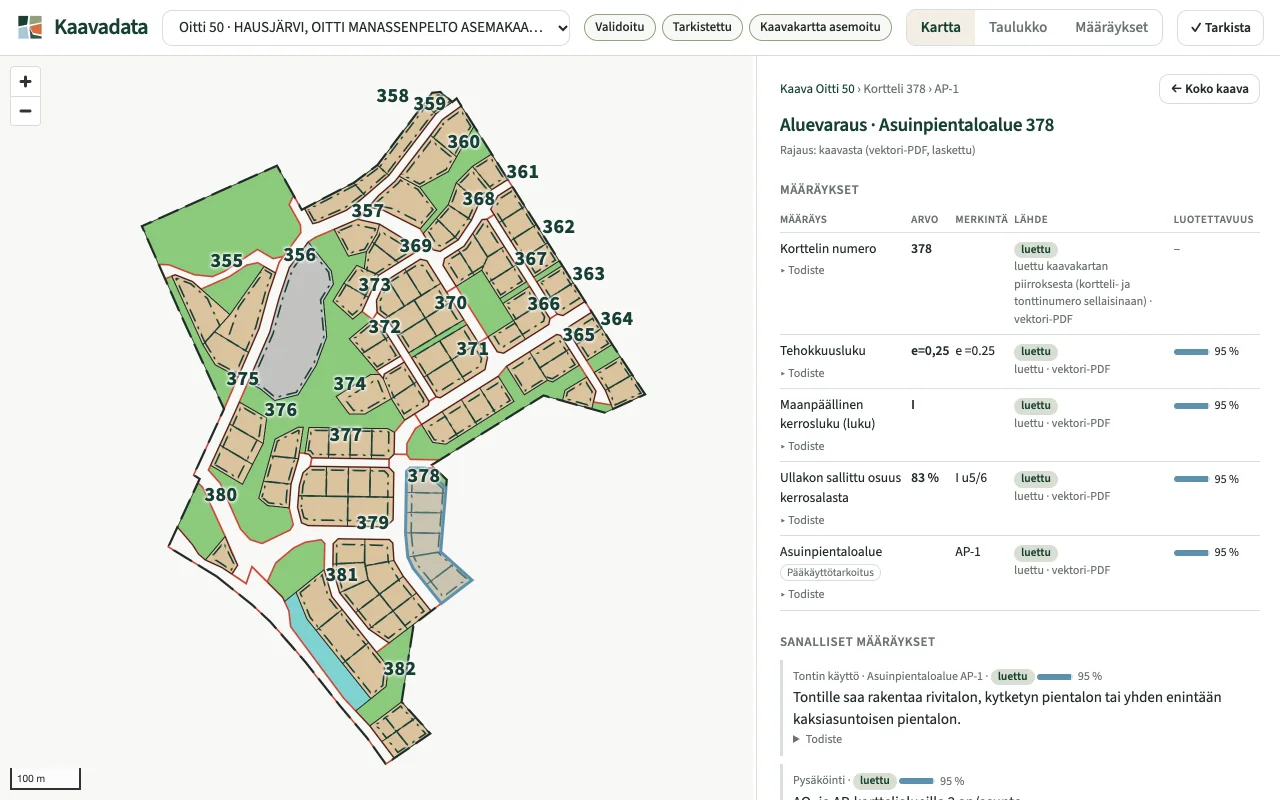
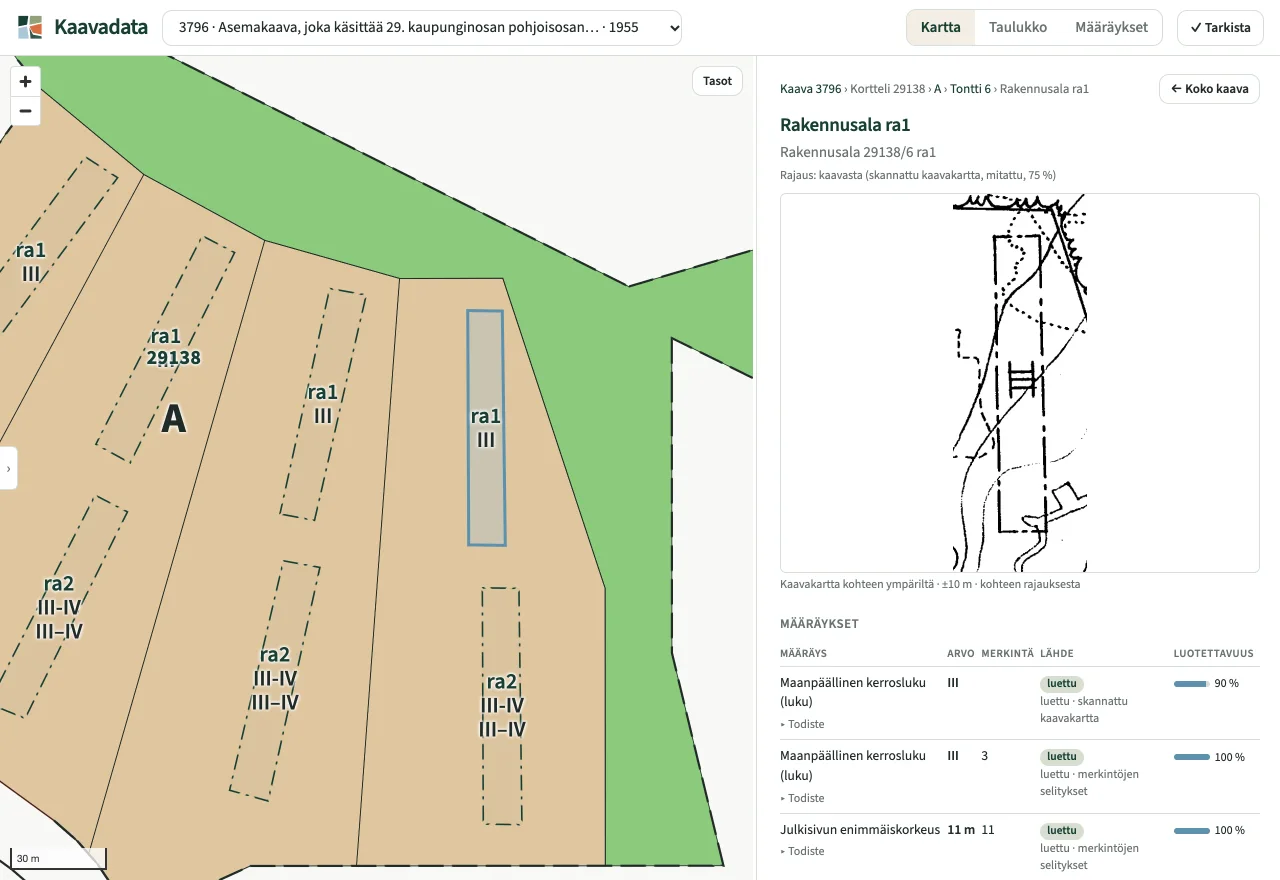
Mikko's copy, the 1955 plan as the screenshot, mikko@kaavadata.fi
The copy as Mikko wrote it: the lead names the inputs and Ryhti, the motto ends
with Ryhti-yhteensopiva, the three points are gone, the Ryhti section is
"Ryhti-yhteensopiva aineisto". The screenshot is the new UI on Helsinki's 3796
(1955, scanned): the interpretation on the map, the scan crop and the
regulations with their sources in the panel. Contact: mikko@kaavadata.fi.

diff --git a/index.html b/index.html
@@ -4,7 +4,7 @@
 <meta charset="utf-8">
 <meta name="viewport" content="width=device-width, initial-scale=1">
 <title>Kaavadata – rakenteista kaavatietoa vanhoista asemakaavoista</title>
-<meta name="description" content="Kaavadata muuntaa asemakaavan – skannatun kaavakartan, PDF:n tai CAD-aineiston – valtakunnallisen kaavatietomallin mukaiseksi paikkatiedoksi.">
+<meta name="description" content="Kaavadata muuntaa asemakaavan alkuperäisaineiston – skannatun kaavakartan, PDF:n tai CAD-aineiston – kansallisen kaavatietomallin mukaiseksi rakenteiseksi paikkatiedoksi, joka voidaan viedä Ryhti-järjestelmään.">
 <link rel="canonical" href="https://kaavadata.fi/">
 <meta name="theme-color" content="#f8f8f5">
 
@@ -13,7 +13,7 @@
 <meta property="og:locale" content="fi_FI">
 <meta property="og:url" content="https://kaavadata.fi/">
 <meta property="og:title" content="Kaavadata – rakenteista kaavatietoa vanhoista asemakaavoista">
-<meta property="og:description" content="Skannatusta kaavakartasta, PDF:stä tai CAD-aineistosta valtakunnallisen kaavatietomallin mukaista paikkatietoa. Rakenteinen. Paikannettu. Jäljitettävä.">
+<meta property="og:description" content="Skannatusta kaavakartasta, PDF:stä tai CAD-aineistosta kansallisen kaavatietomallin mukaista, Ryhti-järjestelmään vietävää paikkatietoa. Rakenteinen. Paikannettu. Ryhti-yhteensopiva.">
 <meta property="og:image" content="https://kaavadata.fi/assets/og.png">
 <meta property="og:image:width" content="1200">
 <meta property="og:image:height" content="630">
@@ -34,7 +34,7 @@
   "name": "Kaavadata",
   "url": "https://kaavadata.fi/",
   "logo": "https://kaavadata.fi/assets/apple-touch-icon.png",
-  "email": "info@kaavadata.fi",
+  "email": "mikko@kaavadata.fi",
   "description": "Rakenteista kaavatietoa vanhoista asemakaavoista."
 }
 </script>
@@ -51,53 +51,36 @@
       </svg>
       <span>Kaavadata</span>
     </a>
-    <a class="button" href="mailto:info@kaavadata.fi">Ota yhteyttä</a>
+    <a class="button" href="mailto:mikko@kaavadata.fi">Ota yhteyttä</a>
   </div>
 </header>
 
 <main>
   <section class="hero wrap">
     <h1>Vanhoista asemakaavoista rakenteista kaavatietoa.</h1>
-    <p class="lead">Kaavadata muuntaa asemakaavan – skannatun kaavakartan, PDF:n tai CAD-aineiston – valtakunnallisen
-      kaavatietomallin mukaiseksi paikkatiedoksi.</p>
-    <p>Tuloksena ovat kaavakohteet rajauksineen ja niiden kaavamääräykset lajeineen ja arvoineen.</p>
-    <p class="motto">Rakenteinen. Paikannettu. Jäljitettävä.</p>
+    <p class="lead">Kaavadata muuntaa asemakaavan alkuperäisaineiston – skannatun kaavakartan, PDF:n tai CAD-aineiston –
+      kansallisen kaavatietomallin mukaiseksi rakenteiseksi paikkatiedoksi, joka voidaan viedä Ryhti-järjestelmään.</p>
+    <p>Jokainen tulkinta säilyy jäljitettävänä alkuperäiseen kaava-aineistoon.</p>
+    <p class="motto">Rakenteinen. Paikannettu. Ryhti-yhteensopiva.</p>
   </section>
 
   <div class="wrap">
-    <ul class="points">
-      <li>
-        <h2>Rakenteinen</h2>
-        <p>Kaavan sisältö kaavatietomallin mukaisina kaavakohteina ja kaavamääräyksinä.</p>
-      </li>
-      <li>
-        <h2>Paikannettu</h2>
-        <p>Määräykset sidottuina paikannettuihin kaavakohteisiin.</p>
-      </li>
-      <li>
-        <h2>Jäljitettävä</h2>
-        <p>Jokaisen tulkinnan yhteydessä tieto siitä, mihin alkuperäisen kaavan kohtaan se perustuu.</p>
-      </li>
-    </ul>
-
     <figure class="shot">
       <a href="assets/kaavadata-nakyma-2560.webp" aria-label="Avaa kuvakaappaus täysikokoisena">
         <img src="assets/kaavadata-nakyma-1280.webp"
              srcset="assets/kaavadata-nakyma-1280.webp 1280w, assets/kaavadata-nakyma-2560.webp 2560w"
              sizes="(max-width: 1168px) calc(100vw - 32px), 1120px"
-             width="2560" height="1600" loading="lazy" decoding="async"
-             alt="Kaavadatan näkymä: asemakaava kaavakohteina kartalla ja valitun korttelialueen kaavamääräykset lähteineen ja luotettavuuksineen.">
+             width="2560" height="1760" loading="lazy" decoding="async"
+             alt="Kaavadatan näkymä: vuoden 1955 asemakaavasta tulkitut kaavakohteet kartalla. Sivupaneelissa valitun rakennusalan kohta skannatusta kaavakartasta ja sen kaavamääräykset, kullakin lähde ja luotettavuus.">
       </a>
-      <figcaption>Asemakaava kaavakohteina. Jokaisella kaavamääräyksellä näkyy lähde ja luotettavuus.</figcaption>
+      <figcaption>Alkuperäinen kaava, tulkitut kaavakohteet ja niiden määräykset samassa näkymässä. Jokaisesta tulkinnasta
+        näkyy, mihin lähdeaineiston kohtaan se perustuu.</figcaption>
     </figure>
 
     <section class="model" aria-labelledby="ryhti">
-      <div>
-        <p class="label">Ryhti</p>
-        <h2 id="ryhti">Yhteensopiva valtakunnallisen kaavatietomallin kanssa</h2>
-      </div>
-      <p>Kaavamääräysten lajit ja koodiarvot ovat Ryhti-tietojärjestelmän koodistojen mukaisia, ja aineisto validoidaan
-        järjestelmän omalla rajapinnalla.</p>
+      <h2 id="ryhti">Ryhti-yhteensopiva aineisto</h2>
+      <p>Kaavadata tuottaa kaavakohteet ja kaavamääräykset kansallisen kaavatietomallin mukaisesti. Määräysten lajit ja
+        koodiarvot ovat Ryhti-järjestelmän koodistojen mukaisia, ja aineisto validoidaan Ryhdin omalla rajapinnalla.</p>
     </section>
   </div>
 </main>
@@ -105,7 +88,7 @@
 <footer class="site-footer">
   <div class="wrap">
     <p>Kaavadata on kehitysvaiheessa.</p>
-    <a href="mailto:info@kaavadata.fi">info@kaavadata.fi</a>
+    <a href="mailto:mikko@kaavadata.fi">mikko@kaavadata.fi</a>
   </div>
 </footer>
 

diff --git a/styles.css b/styles.css
@@ -161,57 +161,10 @@ a:focus-visible {
   letter-spacing: -0.01em;
 }
 
-/* Three points */
-
-.points {
-  display: grid;
-  grid-template-columns: repeat(3, minmax(0, 1fr));
-  gap: 32px;
-  margin: 0;
-  padding: 0;
-  list-style: none;
-}
-
-.points li {
-  padding-top: 18px;
-  border-top: 1px solid var(--kd-border);
-  position: relative;
-}
-
-/* a short rule in the logo's colours above each point */
-.points li::before {
-  content: "";
-  position: absolute;
-  top: -1px;
-  left: 0;
-  width: 32px;
-  height: 3px;
-  background: var(--kd-forest);
-}
-
-.points li:nth-child(2)::before {
-  background: var(--kd-moss);
-}
-
-.points li:nth-child(3)::before {
-  background: var(--kd-sky);
-}
-
-.points h2 {
-  font-size: 19px;
-  letter-spacing: -0.015em;
-}
-
-.points p {
-  margin-top: 6px;
-  color: var(--kd-muted);
-  font-size: 16px;
-}
-
 /* Screenshot */
 
 .shot {
-  margin: 72px 0 0;
+  margin: 0;
 }
 
 .shot a {
@@ -248,15 +201,6 @@ a:focus-visible {
   border-bottom: 1px solid var(--kd-border);
 }
 
-.label {
-  margin-bottom: 8px;
-  color: var(--kd-muted);
-  font-size: 12px;
-  font-weight: 600;
-  letter-spacing: 0.04em;
-  text-transform: uppercase;
-}
-
 .model h2 {
   font-size: 24px;
   line-height: 1.25;
@@ -264,7 +208,6 @@ a:focus-visible {
 }
 
 .model p {
-  align-self: end;
   font-size: 18px;
 }
 
@@ -325,15 +268,6 @@ a:focus-visible {
 
   .motto {
     margin-top: 24px;
-  }
-
-  .points {
-    grid-template-columns: 1fr;
-    gap: 24px;
-  }
-
-  .shot {
-    margin-top: 48px;
   }
 
   .model {

diff --git a/README.md b/README.md
@@ -7,7 +7,7 @@ repository root (`CNAME` holds the domain, `.nojekyll` turns off Jekyll).
 |---|---|
 | `index.html` | the page, in Finnish; title, description and share-card tags in its head |
 | `styles.css` | the Kaavadata brand v0.2 tokens (`--kd-*`, from kaava-decoder's `brand/kaavadata.css`) and the page's own layout |
-| `assets/kaavadata-nakyma-*.webp` | the screenshot of the Kaavadata UI, 1200 and 2400 px wide |
+| `assets/kaavadata-nakyma-*.webp` | the screenshot of the Kaavadata UI, 1280 and 2560 px wide |
 | `assets/og.png` | the 1200 × 630 card shown when the link is shared |
 | `assets/kaavadata-logo.svg`, `assets/apple-touch-icon.png` | the mark, also the favicon and the home-screen icon |
 
